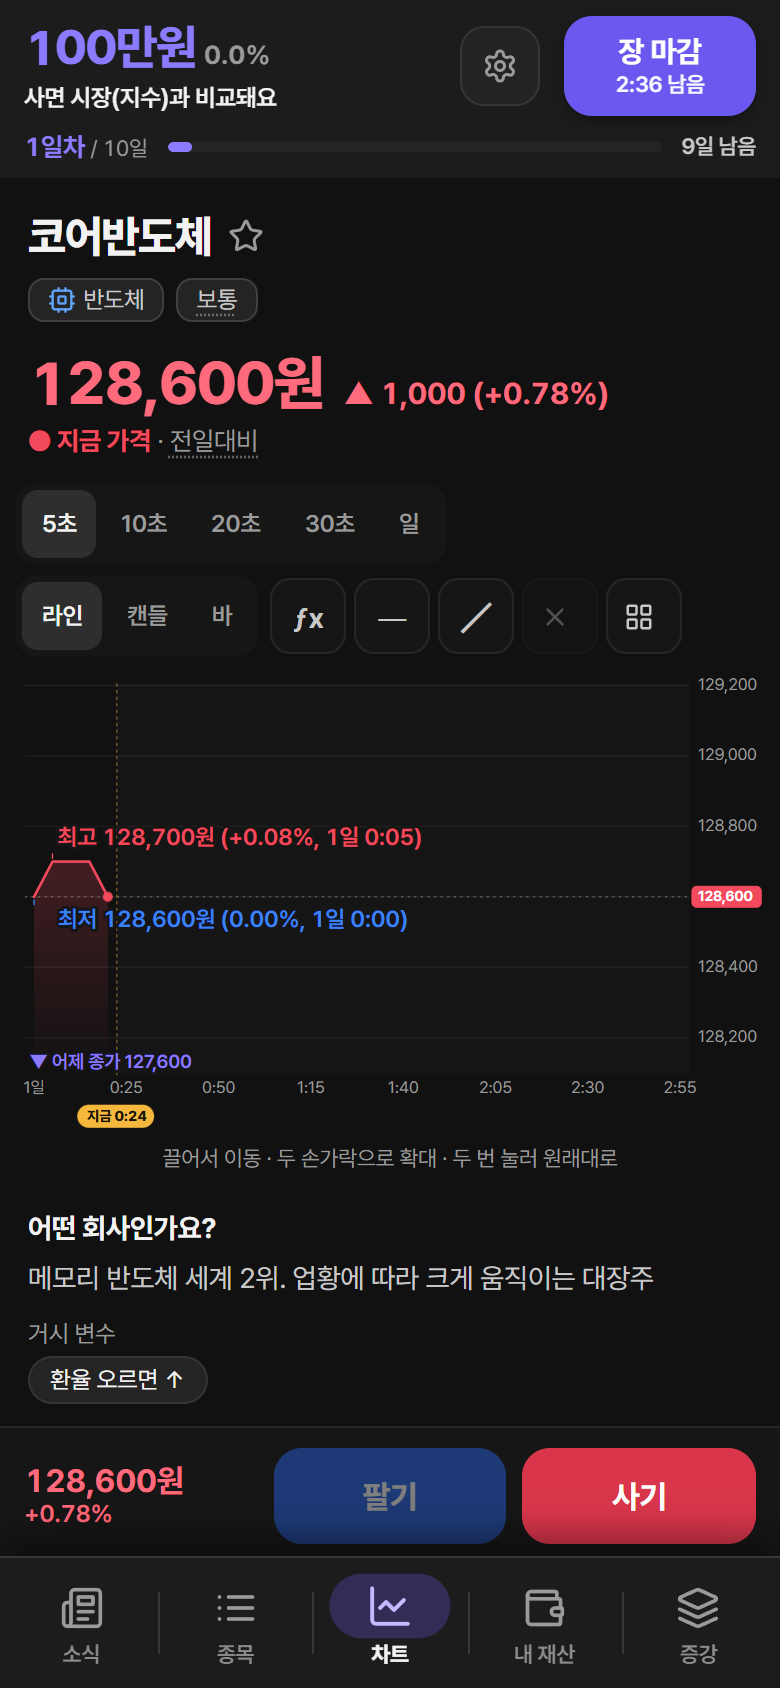
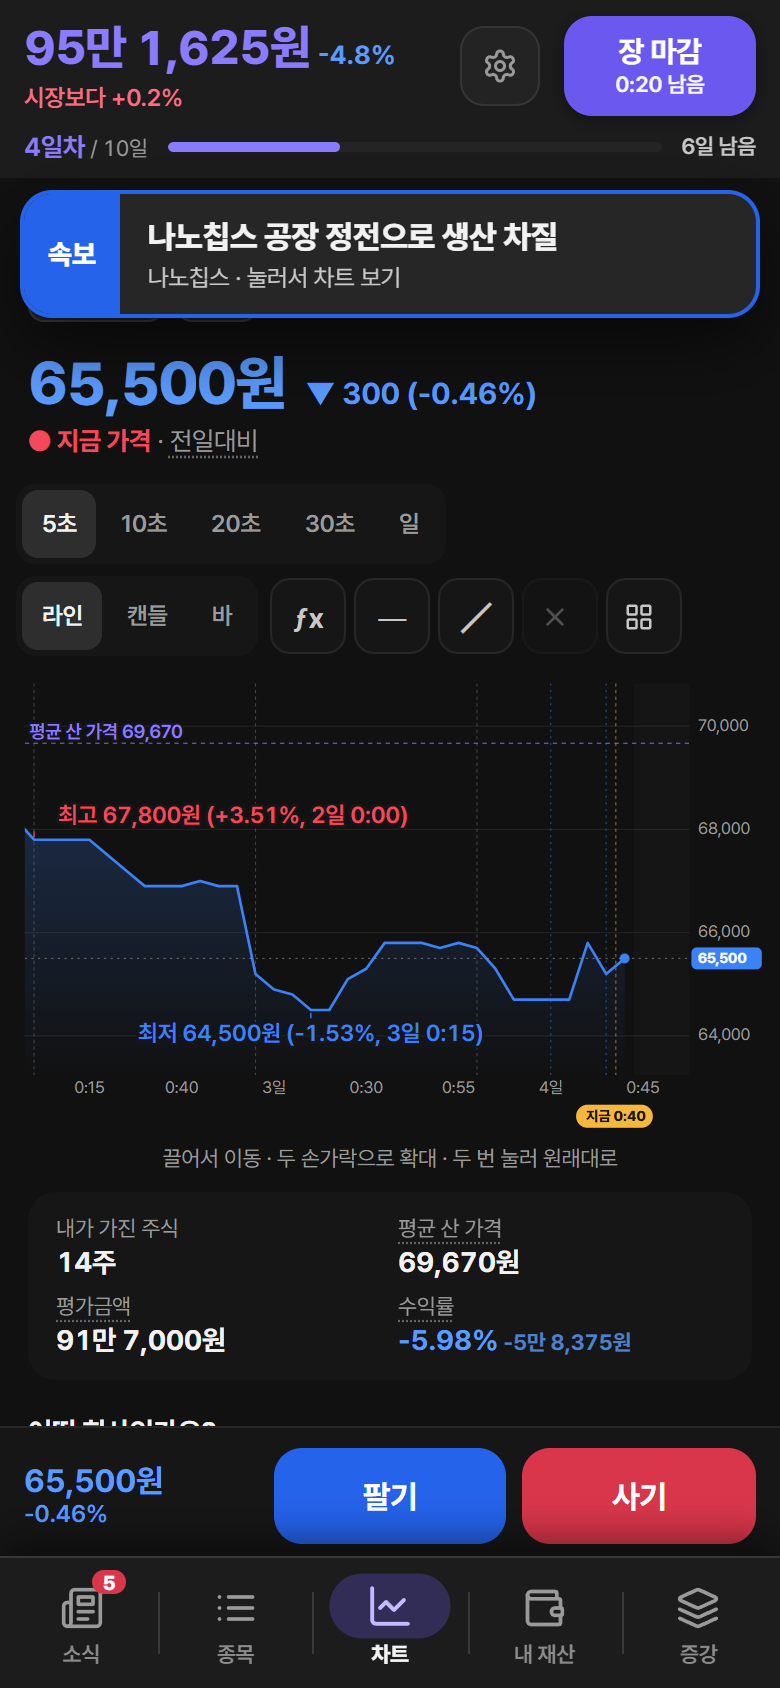
여러 날 이어진 차트: 날이 바뀐 첫 눈금은 날짜로(0:40 → 0:05 처럼 거꾸로 가 보이던 것), 설치 창 스크린샷을 며칠 진행한 판으로 다시

diff --git a/src/components/ProChart.tsx b/src/components/ProChart.tsx
@@ -60,7 +60,8 @@ interface Props {
   onExpand?: () => void;
   /** 장중(오늘 5초 가격을 묶은 봉)처럼 '날'이 아닌 칸일 때: 가로축·툴팁 글자, 기간 버튼, 선 저장 칸 */
   unit?: {
-    axis: (i: number) => string;
+    /** prev: 바로 앞 눈금 칸 (없으면 처음) — 날이 바뀌는 눈금에 날짜를 붙이는 데 씀 */
+    axis: (i: number, prev?: number) => string;
     tip: (i: number) => string;
     /** 최고·최저 표시에 쓸 시각 (예: '2일 0:45') — 없으면 axis */
     when?: (i: number) => string;
@@ -718,7 +719,7 @@ export function ProChart({
               className="axis"
               textAnchor="middle"
             >
-              {unit ? unit.axis(d) : `${d + 1}일`}
+              {unit ? unit.axis(d, visible(d - dayStep) && x(d - dayStep) > padL ? d - dayStep : undefined) : `${d + 1}일`}
             </text>
           ))}
 

diff --git a/src/components/StockDetail.tsx b/src/components/StockDetail.tsx
@@ -321,9 +321,10 @@ export function StockDetail(props: Props) {
           tall={big || tallChart}
           onExpand={big ? undefined : () => setFull(true)}
           unit={{
-            axis: (i) => {
+            // 여러 날이 이어진 축: 날이 바뀐 첫 눈금은 날짜로 (0:40 → 0:05 처럼 시간이 거꾸로 가 보이지 않게)
+            axis: (i, prev) => {
               const { d, sec } = at(i);
-              return sec === 0 ? `${d + 1}일` : clock(sec);
+              return sec === 0 || (prev !== undefined && at(prev).d !== d) ? `${d + 1}일` : clock(sec);
             },
             when: (i) => {
               const { d, sec } = at(i);
